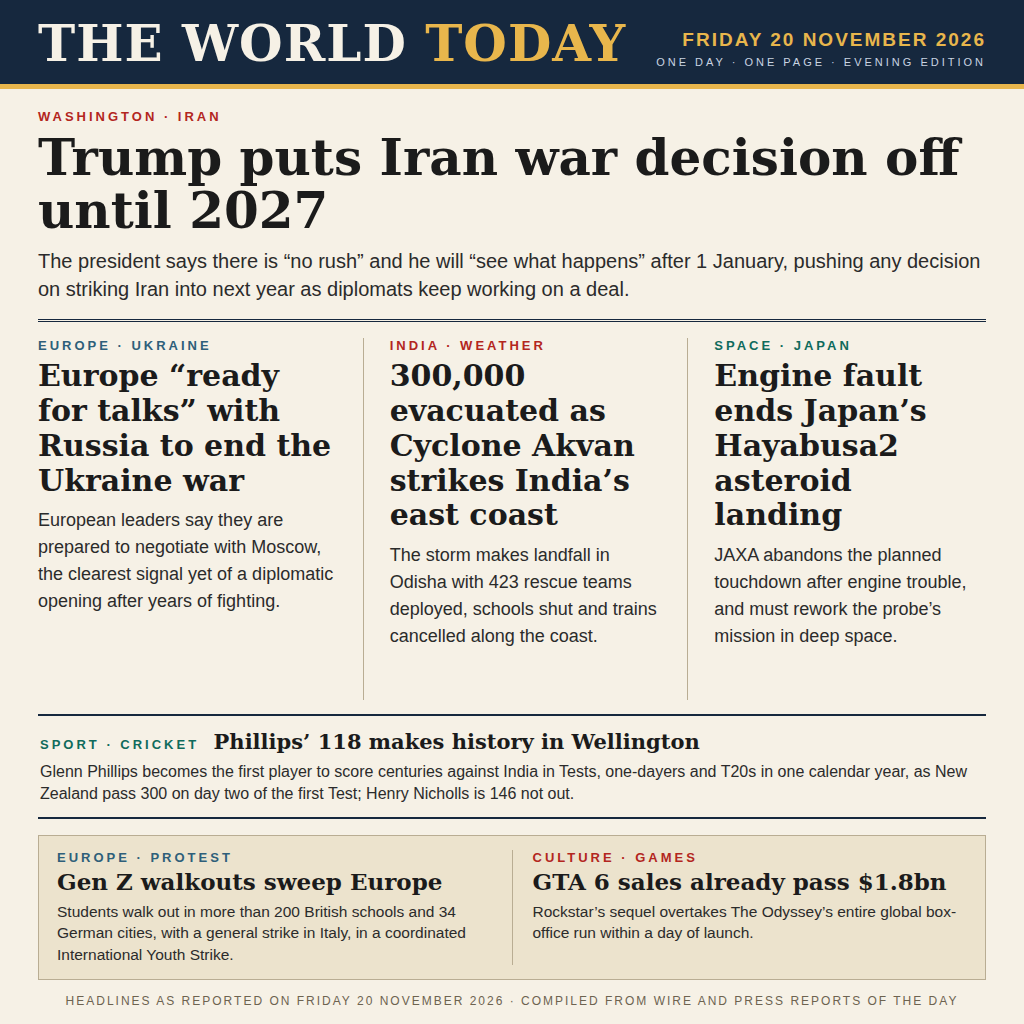
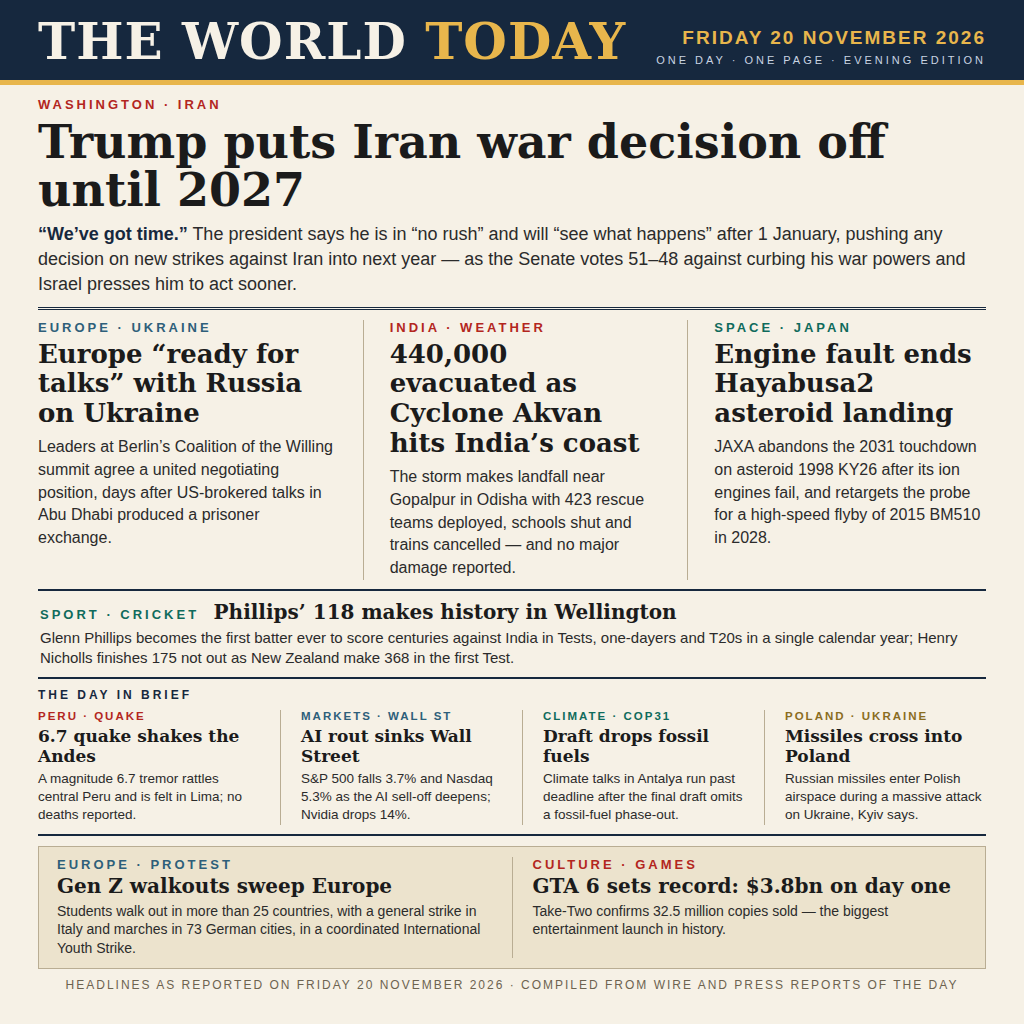
Round 2: richer front page — Senate vote on Iran lead, Abu Dhabi swap, 440k Akvan evacuees, new Day in Brief row (Peru quake, Wall St AI rout, COP31, Poland missiles), official GTA 6 $3.8bn

Changed region(s): [[0.0, 0.0, 1.0, 1.0], [0.0625, 0.0, 0.0938, 0.0312]]

diff --git a/poster.html b/poster.html
@@ -16,7 +16,7 @@
   .masthead {
     background: #16283e; color: #f6f1e6;
     display: flex; justify-content: space-between; align-items: flex-end;
-    padding: 20px 38px 16px;
+    padding: 18px 38px 14px;
   }
   .masthead .title {
     font-family: "DejaVu Serif", Georgia, serif;
@@ -28,57 +28,74 @@
   .masthead .datebox .ed { font-size: 11px; letter-spacing: 3px; margin-top: 5px; color: #c9d4e2; }
   .goldrule { height: 5px; background: #e8b64c; }
 
-  .body { padding: 20px 38px 0; display: flex; flex-direction: column; flex: 1; }
+  .body { padding: 12px 38px 0; display: flex; flex-direction: column; flex: 1; }
 
   /* ---- lead story, full width ---- */
-  .lead { padding-bottom: 16px; border-bottom: 3px double #16283e; }
+  .lead { padding-bottom: 10px; border-bottom: 3px double #16283e; }
   .kicker {
     font-size: 13px; font-weight: bold; letter-spacing: 3px; color: #b3261e;
   }
   .kicker.blue { color: #2e5f7a; }
   .kicker.teal { color: #0f6b5c; }
+  .kicker.gold { color: #8a6d1f; }
   .lead h1 {
     font-family: "DejaVu Serif", Georgia, serif;
-    font-size: 50px; line-height: 1.06; margin-top: 7px;
+    font-size: 46px; line-height: 1.05; margin-top: 6px;
   }
-  .lead p { font-size: 20px; line-height: 1.42; margin-top: 10px; color: #2b2b2b; }
+  .lead p { font-size: 18px; line-height: 1.38; margin-top: 8px; color: #2b2b2b; }
+  .lead p .stand { font-weight: bold; color: #16283e; }
 
   /* ---- three-column grid ---- */
   .trio {
     display: grid; grid-template-columns: 1fr 1fr 1fr; gap: 0 26px;
-    padding: 16px 0 14px; border-bottom: 2px solid #16283e; flex: 1;
+    padding: 10px 0 9px; border-bottom: 2px solid #16283e;
   }
   .trio article + article { border-left: 1px solid #b9ad93; padding-left: 26px; }
   .trio h2 {
     font-family: "DejaVu Serif", Georgia, serif;
-    font-size: 30px; line-height: 1.16; margin-top: 6px;
+    font-size: 26px; line-height: 1.15; margin-top: 5px;
   }
-  .trio p { font-size: 18px; line-height: 1.5; margin-top: 9px; color: #2b2b2b; }
+  .trio p { font-size: 16px; line-height: 1.42; margin-top: 7px; color: #2b2b2b; }
 
-  /* ---- sport brief, one line of the day's play ---- */
-  .briefs { padding: 13px 2px 12px; border-bottom: 2px solid #16283e; }
+  /* ---- sport brief ---- */
+  .briefs { padding: 9px 2px 8px; border-bottom: 2px solid #16283e; }
   .briefs .kicker { display: inline; }
   .briefs h3 {
     display: inline; font-family: "DejaVu Serif", Georgia, serif;
-    font-size: 21px; line-height: 1.2; margin-left: 10px;
+    font-size: 20px; line-height: 1.2; margin-left: 10px;
   }
-  .briefs p { font-size: 16px; line-height: 1.4; margin-top: 6px; color: #2b2b2b; }
+  .briefs p { font-size: 15px; line-height: 1.36; margin-top: 4px; color: #2b2b2b; }
+
+  /* ---- the day in brief: four compact items ---- */
+  .daybrief { padding: 9px 0 9px; border-bottom: 2px solid #16283e; }
+  .daybrief .dbhead {
+    font-size: 12px; font-weight: bold; letter-spacing: 3px; color: #16283e;
+    margin-bottom: 8px;
+  }
+  .dbgrid { display: grid; grid-template-columns: 1fr 1fr 1fr 1fr; gap: 0 20px; }
+  .dbgrid article + article { border-left: 1px solid #b9ad93; padding-left: 20px; }
+  .dbgrid .kicker { font-size: 11.5px; letter-spacing: 2px; }
+  .dbgrid h4 {
+    font-family: "DejaVu Serif", Georgia, serif;
+    font-size: 17px; line-height: 1.18; margin-top: 4px;
+  }
+  .dbgrid p { font-size: 13.5px; line-height: 1.36; margin-top: 4px; color: #2b2b2b; }
 
   /* ---- lower band: two short items in a tinted box ---- */
   .band {
     background: #ece3cd; border: 1px solid #b9ad93;
-    display: flex; margin-top: 16px; padding: 14px 18px;
+    display: flex; margin-top: 10px; padding: 10px 18px;
   }
   .band article { flex: 1; }
   .band article + article { border-left: 1px solid #b9ad93; padding-left: 20px; margin-left: 20px; }
   .band h3 {
     font-family: "DejaVu Serif", Georgia, serif;
-    font-size: 23px; line-height: 1.15; margin-top: 4px;
+    font-size: 20px; line-height: 1.15; margin-top: 3px;
   }
-  .band p { font-size: 15.5px; line-height: 1.38; margin-top: 5px; color: #2b2b2b; }
+  .band p { font-size: 14px; line-height: 1.34; margin-top: 4px; color: #2b2b2b; }
 
   .foot {
-    margin-top: 14px; padding-bottom: 16px;
+    margin-top: 9px; padding-bottom: 12px;
     font-size: 12px; letter-spacing: 2px; color: #6d6350; text-align: center;
   }
 </style>
@@ -98,43 +115,69 @@
     <section class="lead">
       <div class="kicker">WASHINGTON &middot; IRAN</div>
       <h1>Trump puts Iran war decision off until 2027</h1>
-      <p>The president says there is &ldquo;no rush&rdquo; and he will &ldquo;see what happens&rdquo; after 1 January, pushing any decision on striking Iran into next year as diplomats keep working on a deal.</p>
+      <p><span class="stand">&ldquo;We&rsquo;ve got time.&rdquo;</span> The president says he is in &ldquo;no rush&rdquo; and will &ldquo;see what happens&rdquo; after 1 January, pushing any decision on new strikes against Iran into next year &mdash; as the Senate votes 51&ndash;48 against curbing his war powers and Israel presses him to act sooner.</p>
     </section>
 
     <div class="trio">
       <article>
         <div class="kicker blue">EUROPE &middot; UKRAINE</div>
-        <h2>Europe &ldquo;ready for talks&rdquo; with Russia to end the Ukraine war</h2>
-        <p>European leaders say they are prepared to negotiate with Moscow, the clearest signal yet of a diplomatic opening after years of fighting.</p>
+        <h2>Europe &ldquo;ready for talks&rdquo; with Russia on Ukraine</h2>
+        <p>Leaders at Berlin&rsquo;s Coalition of the Willing summit agree a united negotiating position, days after US-brokered talks in Abu Dhabi produced a prisoner exchange.</p>
       </article>
       <article>
         <div class="kicker">INDIA &middot; WEATHER</div>
-        <h2>300,000 evacuated as Cyclone Akvan strikes India&rsquo;s east coast</h2>
-        <p>The storm makes landfall in Odisha with 423 rescue teams deployed, schools shut and trains cancelled along the coast.</p>
+        <h2>440,000 evacuated as Cyclone Akvan hits India&rsquo;s coast</h2>
+        <p>The storm makes landfall near Gopalpur in Odisha with 423 rescue teams deployed, schools shut and trains cancelled &mdash; and no major damage reported.</p>
       </article>
       <article>
         <div class="kicker teal">SPACE &middot; JAPAN</div>
-        <h2>Engine fault ends Japan&rsquo;s Hayabusa2 asteroid landing</h2>
-        <p>JAXA abandons the planned touchdown after engine trouble, and must rework the probe&rsquo;s mission in deep space.</p>
+        <h2>Engine fault ends Hayabusa2 asteroid landing</h2>
+        <p>JAXA abandons the 2031 touchdown on asteroid 1998 KY26 after its ion engines fail, and retargets the probe for a high-speed flyby of 2015 BM510 in 2028.</p>
       </article>
     </div>
 
     <div class="briefs">
       <div class="kicker teal">SPORT &middot; CRICKET</div>
       <h3>Phillips&rsquo; 118 makes history in Wellington</h3>
-      <p>Glenn Phillips becomes the first player to score centuries against India in Tests, one-dayers and T20s in one calendar year, as New Zealand pass 300 on day two of the first Test; Henry Nicholls is 146 not out.</p>
+      <p>Glenn Phillips becomes the first batter ever to score centuries against India in Tests, one-dayers and T20s in a single calendar year; Henry Nicholls finishes 175 not out as New Zealand make 368 in the first Test.</p>
+    </div>
+
+    <div class="daybrief">
+      <div class="dbhead">THE DAY IN BRIEF</div>
+      <div class="dbgrid">
+        <article>
+          <div class="kicker">PERU &middot; QUAKE</div>
+          <h4>6.7 quake shakes the Andes</h4>
+          <p>A magnitude 6.7 tremor rattles central Peru and is felt in Lima; no deaths reported.</p>
+        </article>
+        <article>
+          <div class="kicker blue">MARKETS &middot; WALL ST</div>
+          <h4>AI rout sinks Wall Street</h4>
+          <p>S&amp;P 500 falls 3.7% and Nasdaq 5.3% as the AI sell-off deepens; Nvidia drops 14%.</p>
+        </article>
+        <article>
+          <div class="kicker teal">CLIMATE &middot; COP31</div>
+          <h4>Draft drops fossil fuels</h4>
+          <p>Climate talks in Antalya run past deadline after the final draft omits a fossil-fuel phase-out.</p>
+        </article>
+        <article>
+          <div class="kicker gold">POLAND &middot; UKRAINE</div>
+          <h4>Missiles cross into Poland</h4>
+          <p>Russian missiles enter Polish airspace during a massive attack on Ukraine, Kyiv says.</p>
+        </article>
+      </div>
     </div>
 
     <div class="band">
       <article>
         <div class="kicker blue">EUROPE &middot; PROTEST</div>
         <h3>Gen Z walkouts sweep Europe</h3>
-        <p>Students walk out in more than 200 British schools and 34 German cities, with a general strike in Italy, in a coordinated International Youth Strike.</p>
+        <p>Students walk out in more than 25 countries, with a general strike in Italy and marches in 73 German cities, in a coordinated International Youth Strike.</p>
       </article>
       <article>
         <div class="kicker">CULTURE &middot; GAMES</div>
-        <h3>GTA 6 sales already pass $1.8bn</h3>
-        <p>Rockstar&rsquo;s sequel overtakes The Odyssey&rsquo;s entire global box-office run within a day of launch.</p>
+        <h3>GTA 6 sets record: $3.8bn on day one</h3>
+        <p>Take-Two confirms 32.5 million copies sold &mdash; the biggest entertainment launch in history.</p>
       </article>
     </div>
 

diff --git a/main.ts b/main.ts
@@ -1,4 +1,13 @@
-// The World Today — Friday 20 November 2026.
+// The World Today — Friday 20 November 2026. ROUND 2.
+//
+// Round 2 keeps the round-1 front page that scored 0.971318 and makes it
+// richer: the lead adds the Senate's 51-48 war-powers vote, the trio gains
+// the Abu Dhabi prisoner swap, the 440,000-person Akvan evacuation and the
+// Hayabusa2 retarget to 2015 BM510, the cricket brief now names Phillips'
+// first-ever three-format feat and Nicholls' 175*, and a new four-item
+// "The Day in Brief" row adds Peru's 6.7 quake, the Wall Street AI rout,
+// the COP31 fossil-fuel draft and Russian missiles crossing into Poland.
+// The GTA 6 item now uses Take-Two's official day-one figure: $3.8bn.
 //
 // The entry is the poster itself: entry.png is a newspaper front page of the
 // day's world news, drawn at build time from poster.html. This program does
@@ -49,7 +58,8 @@ function main(): void {
   mkdirSync(outDir, { recursive: true });
   const dest = join(outDir, "entry.png");
   writeFileSync(dest, image);
-  console.log(`wrote ${dest} (${width}x${height}, ${image.length} bytes)`);
+  // Round 2 poster: richer front page, same byte-for-byte copy guarantee.
+  console.log(`round 2 poster wrote ${dest} (${width}x${height}, ${image.length} bytes)`);
 }
 
 main();
